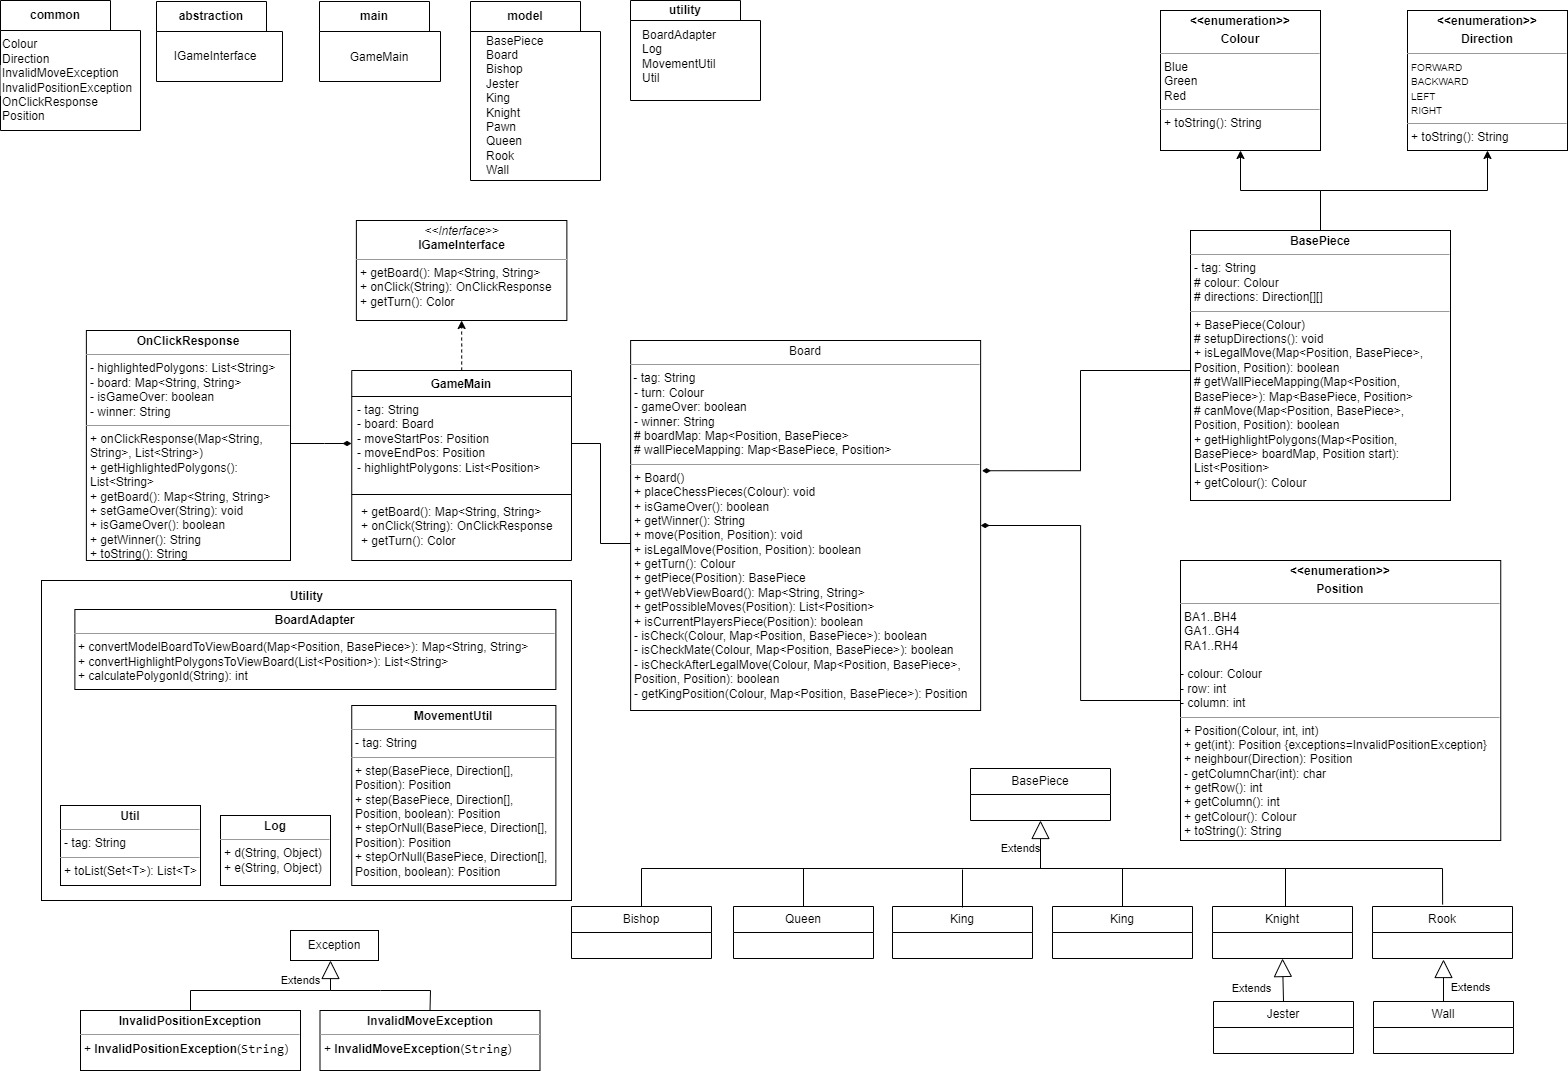
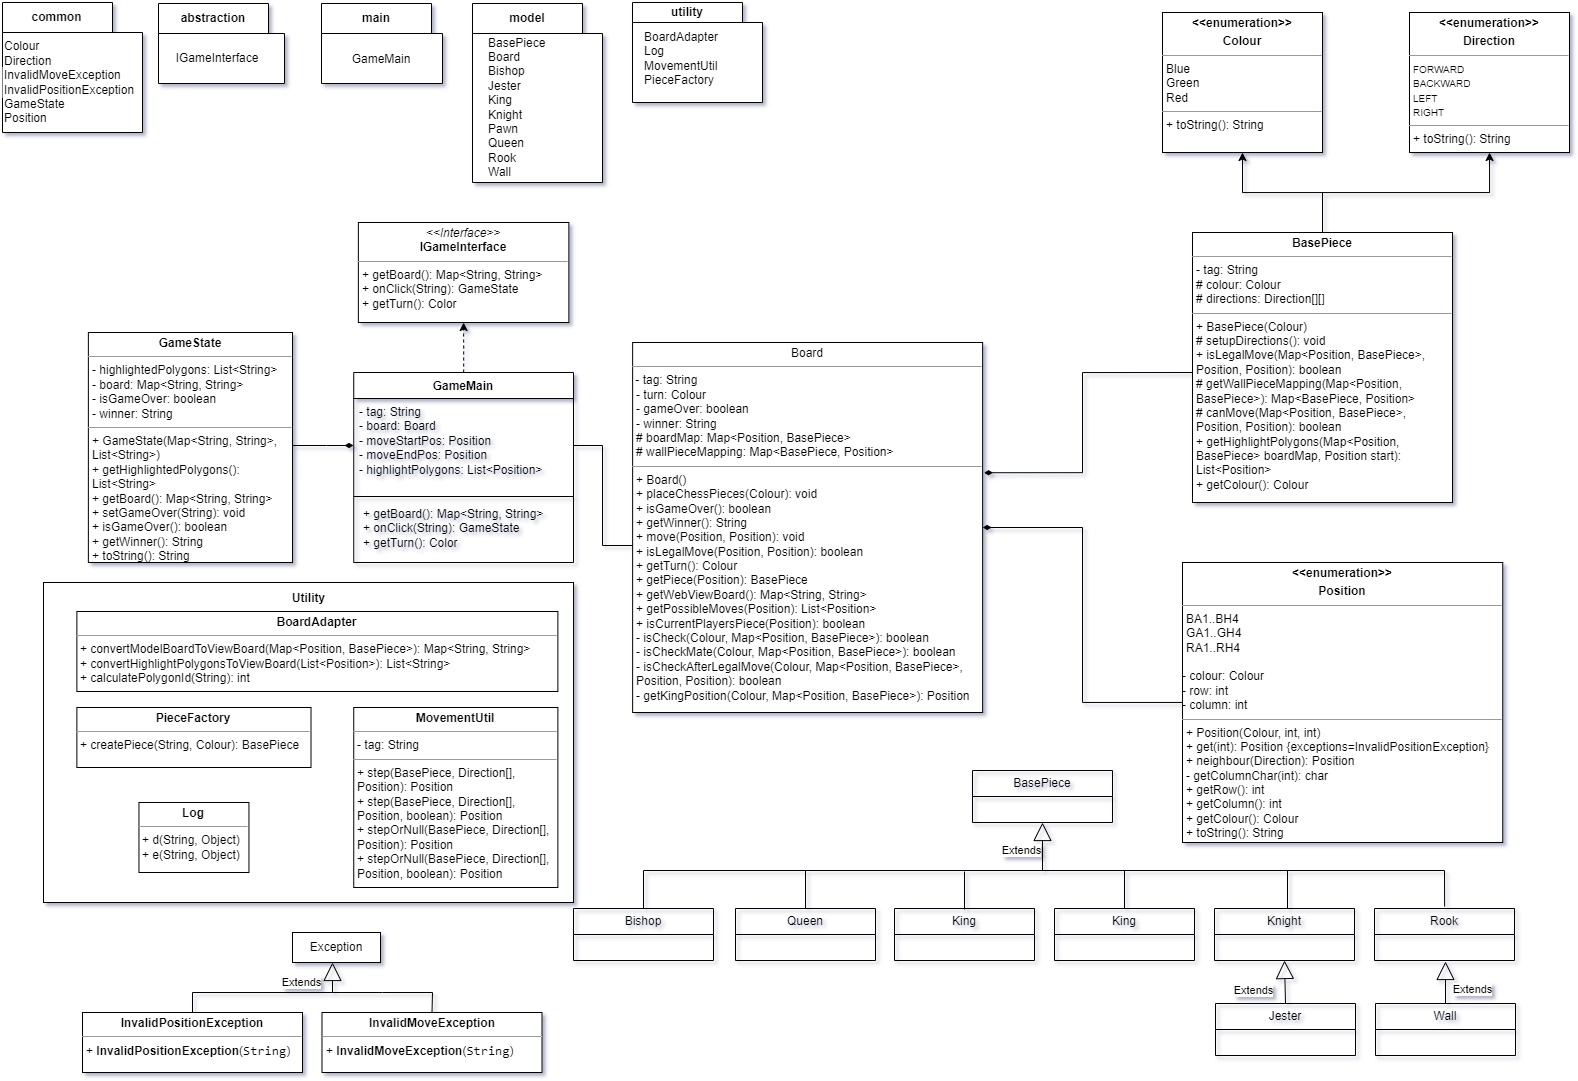
renamed onclickresponse to gamestate

diff --git a/backend/src/test/java/main/GameMainTest.java b/backend/src/test/java/main/GameMainTest.java
@@ -1,7 +1,7 @@
 package main;
 
 import common.Colour;
-import common.OnClickResponse;
+import common.GameState;
 import org.junit.jupiter.api.BeforeEach;
 import org.junit.jupiter.api.Test;
 import org.junit.jupiter.params.ParameterizedTest;
@@ -31,7 +31,7 @@ import static org.junit.jupiter.api.Assertions.*;
     */
     @Test
      void onClick_selectEmptyPolygon_noHighlight() {
-        OnClickResponse response = gameMain.onClick("Bc3");
+        GameState response = gameMain.onClick("Bc3");
         assertEquals(0, response.getHighlightedPolygons().size());
     }
 
@@ -40,7 +40,7 @@ import static org.junit.jupiter.api.Assertions.*;
     */
     @Test
      void onClick_selectBluePawnPolygon_highlightListNonEmpty() {
-        OnClickResponse response = gameMain.onClick("Ba2");
+        GameState response = gameMain.onClick("Ba2");
         assertFalse(response.getHighlightedPolygons().isEmpty());
     }
 
@@ -49,7 +49,7 @@ import static org.junit.jupiter.api.Assertions.*;
     */
     @Test
      void onClick_selectNonTurnRedPawnPolygon_noHighlight() {
-        OnClickResponse response = gameMain.onClick("Ra2");
+        GameState response = gameMain.onClick("Ra2");
         assertEquals(0, response.getHighlightedPolygons().size());
     }
 
@@ -59,7 +59,7 @@ import static org.junit.jupiter.api.Assertions.*;
     @Test
      void onClick_moveBluePawn_noHighlight() {
         gameMain.onClick("Bb2");
-        OnClickResponse response = gameMain.onClick("Bb4");
+        GameState response = gameMain.onClick("Bb4");
         assertEquals(0, response.getHighlightedPolygons().size());
     }
 
@@ -73,7 +73,7 @@ import static org.junit.jupiter.api.Assertions.*;
     @ValueSource(strings = {"Kb2", "", "123", "Ri33", "RBB"})
      void onClick_invalidPolygonLabel_noHighlightNoBoardChange(String polygonLabel) {
         Map<String, String> oldBoard = gameMain.getBoard();
-        OnClickResponse response = gameMain.onClick(polygonLabel);
+        GameState response = gameMain.onClick(polygonLabel);
         assertEquals(0, response.getHighlightedPolygons().size());
         assertEquals(oldBoard, gameMain.getBoard());
     }
@@ -85,7 +85,7 @@ import static org.junit.jupiter.api.Assertions.*;
      void onClick_invalidMove_noHighlightNoBoardChange() {
         Map<String, String> oldBoard = gameMain.getBoard();
         gameMain.onClick("Ba2");
-        OnClickResponse response = gameMain.onClick("Ba4");
+        GameState response = gameMain.onClick("Ba4");
         assertEquals(0, response.getHighlightedPolygons().size());
         assertEquals(oldBoard, gameMain.getBoard());
     }

diff --git a/backend/src/main/java/main/GameMain.java b/backend/src/main/java/main/GameMain.java
@@ -5,7 +5,7 @@ import com.google.common.collect.ImmutableSet;
 import common.Colour;
 import common.InvalidMoveException;
 import common.InvalidPositionException;
-import common.OnClickResponse;
+import common.GameState;
 import common.Position;
 import model.Board;
 import utility.BoardAdapter;
@@ -52,10 +52,10 @@ public class GameMain implements IGameInterface {
      * Responsible for sending mouse click events to backend and apply game logic over it to display
      * updated board layout to player.
      * @param  polygonLabel The unique label of the polygon which is clicked by player
-     * @return OnClickResponse which contains current game board layout and list of polygons to highlight
+     * @return GameState which contains current game board layout and list of polygons to highlight
      **/
     @Override
-    public OnClickResponse onClick(String polygonLabel) {
+    public GameState onClick(String polygonLabel) {
         try {
             // polygonPos must be in range [0, 95]
             Log.d(TAG, ">>> onClick called: polygonLabel: "+polygonLabel);
@@ -88,7 +88,7 @@ public class GameMain implements IGameInterface {
             highlightPolygons = null;
         }
         List<String> highlightPolygonsList = BoardAdapter.convertHighlightPolygonsToViewBoard(highlightPolygons);
-        OnClickResponse clickResponse = new OnClickResponse(getBoard(), highlightPolygonsList);
+        GameState clickResponse = new GameState(getBoard(), highlightPolygonsList);
         if(board.isGameOver()) {
             String winner = board.getWinner();
             Log.d(TAG, "Winner: "+winner);

diff --git a/backend/src/main/java/common/GameState.java b/backend/src/main/java/common/GameState.java
@@ -4,11 +4,11 @@ import java.util.List;
 import java.util.Map;
 
 /**
- * Class OnClickResponse to communicate with the webapp.
+ * Class GameState to communicate with the webapp.
  * All the info regarding highlighted polygons, winner is
  * accessed with this method
  */
-public class OnClickResponse {
+public class GameState {
 
     private final List<String> highlightedPolygons;
     private final Map<String, String> board;
@@ -16,9 +16,9 @@ public class OnClickResponse {
     private String winner;
 
     /**
-     * OnClickResponse constructor
+     * GameState constructor
      */
-    public OnClickResponse(Map<String, String> board, List<String> highlightedPolygons) {
+    public GameState(Map<String, String> board, List<String> highlightedPolygons) {
         this.board = board;
         this.highlightedPolygons = highlightedPolygons;
     }
@@ -70,7 +70,7 @@ public class OnClickResponse {
      **/
     @Override
     public String toString() {
-        return "OnClickResponse{" +
+        return "GameState{" +
                 "highlightedPolygons=" + highlightedPolygons +
                 ", board=" + board +
                 '}';

diff --git a/backend/src/main/java/abstraction/IGameInterface.java b/backend/src/main/java/abstraction/IGameInterface.java
@@ -1,6 +1,6 @@
 package abstraction;
 import common.Colour;
-import common.OnClickResponse;
+import common.GameState;
 
 import java.util.Map;
 
@@ -16,9 +16,9 @@ public interface IGameInterface {
      * Responsible for sending mouse click events to backend and apply game logic over it to display
      * updated board layout to player.
      * @param  polygonLabel The unique label of the polygon which is clicked by player
-     * @return OnClickResponse which contains current game board layout and list of polygons to highlight
+     * @return GameState which contains current game board layout and list of polygons to highlight
      **/
-    OnClickResponse onClick(String polygonLabel);
+    GameState onClick(String polygonLabel);
 
     /**
      * @return returns which colour turn it is currently

diff --git a/webapp/src/main/java/application/controller/GameController.java b/webapp/src/main/java/application/controller/GameController.java
@@ -2,7 +2,7 @@ package application.controller;
 
 import abstraction.IGameInterface;
 import common.InvalidPositionException;
-import common.OnClickResponse;
+import common.GameState;
 import main.GameMain;
 import org.springframework.web.bind.annotation.GetMapping;
 import org.springframework.web.bind.annotation.PostMapping;
@@ -32,7 +32,7 @@ public class GameController {
      * Method to notify click events to the backend
      **/
     @PostMapping("/onClick")
-    public OnClickResponse handleMove(@RequestBody String polygonText) throws InvalidPositionException {
+    public GameState handleMove(@RequestBody String polygonText) throws InvalidPositionException {
         System.out.println("Polygon: " + polygonText);
         return game.onClick(polygonText);
     }

diff --git a/backend/src/main/java/utility/PieceFactory.java b/backend/src/main/java/utility/PieceFactory.java
@@ -10,7 +10,17 @@ import model.Queen;
 import model.Rook;
 import model.Wall;
 
+/**
+ * PieceFactory - helper class to create objects chess pieces
+ **/
 public class PieceFactory {
+
+    /**
+     * createPiece - based on the type and colour, creates a chess piece
+     * @param colour - piece colour
+     * @param type - piece name e.g. king
+     * @return BasePiece
+     **/
     public static BasePiece createPiece(String type, Colour colour) {
         switch (type.toLowerCase()) {
             case "bishop":
